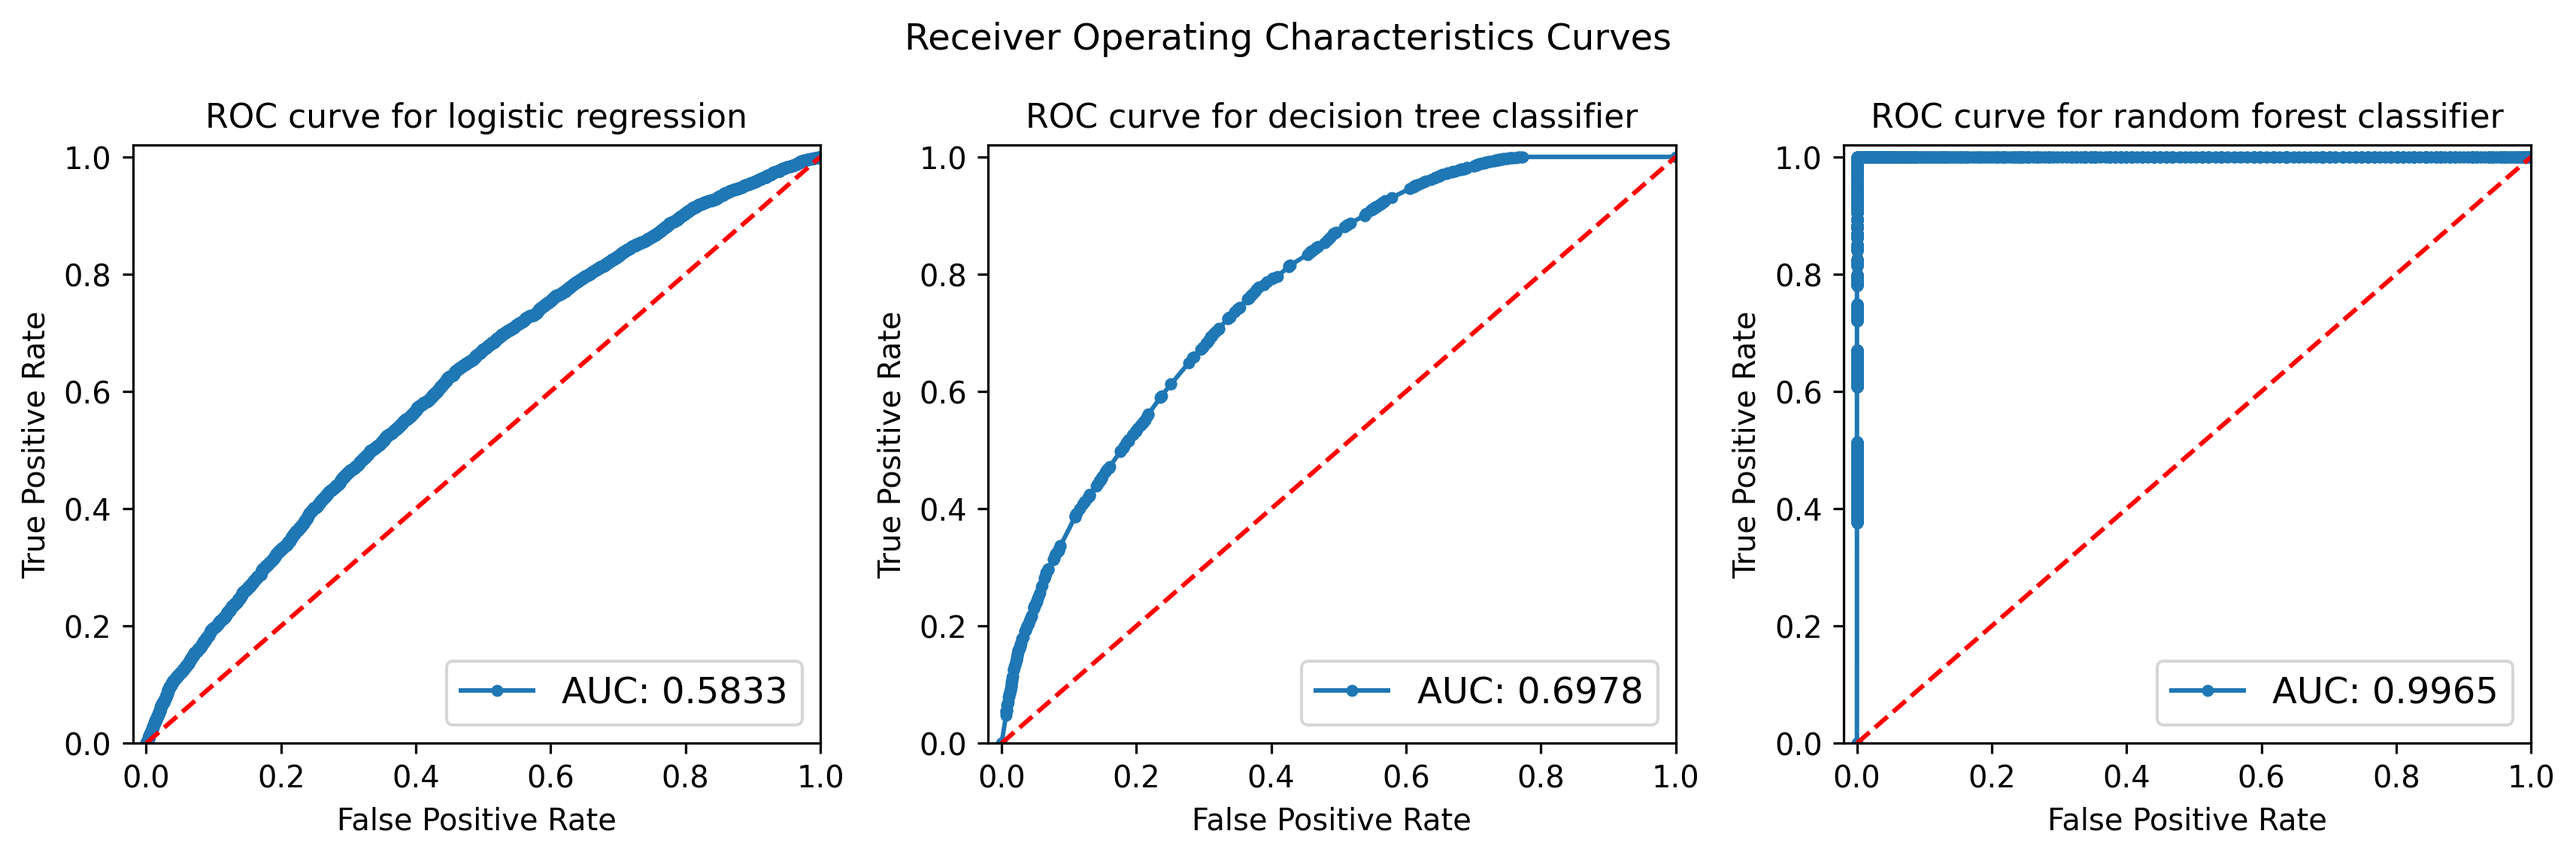
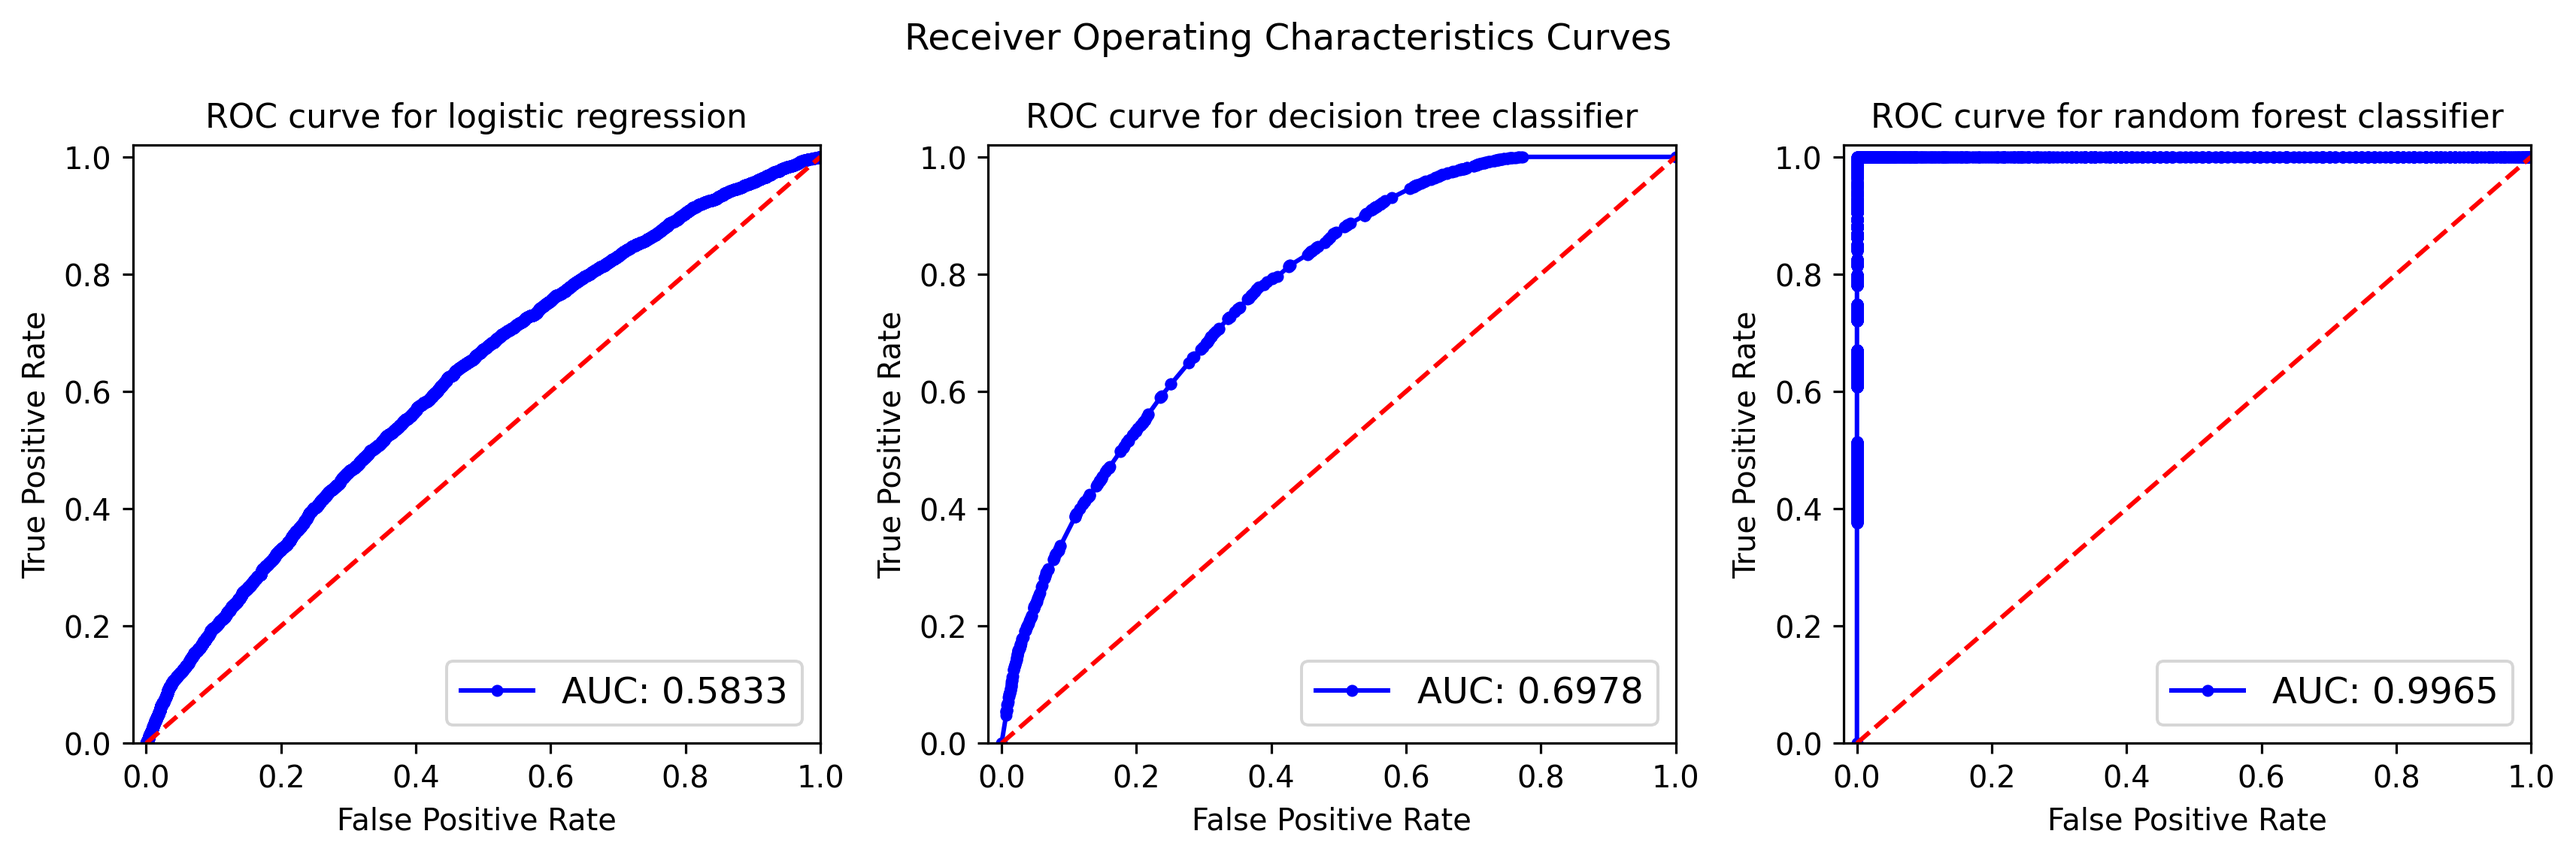
Minor changes to marker size and color

diff --git a/helper_funcs/helper_plots.py b/helper_funcs/helper_plots.py
@@ -9,7 +9,7 @@ def roc_curve_plot_with_auc(rates_dict, work_dir):
     rates_tuples = rates_dict.items()
     for ax, (name, rates_list) in zip(axes, rates_tuples):
         fpr, tpr, model_roc_auc = rates_list
-        ax.plot(fpr, tpr, marker='.', ms=6, label='AUC: {:.4f}'.format(model_roc_auc))
+        ax.plot(fpr, tpr, 'b.-', label='AUC: {:.4f}'.format(model_roc_auc))
         ax.plot([0, 1], [0, 1], 'r--')
         ax.set_xlim([-0.02, 1.0])
         plt.setp(ax.get_xticklabels(), fontsize=10)
